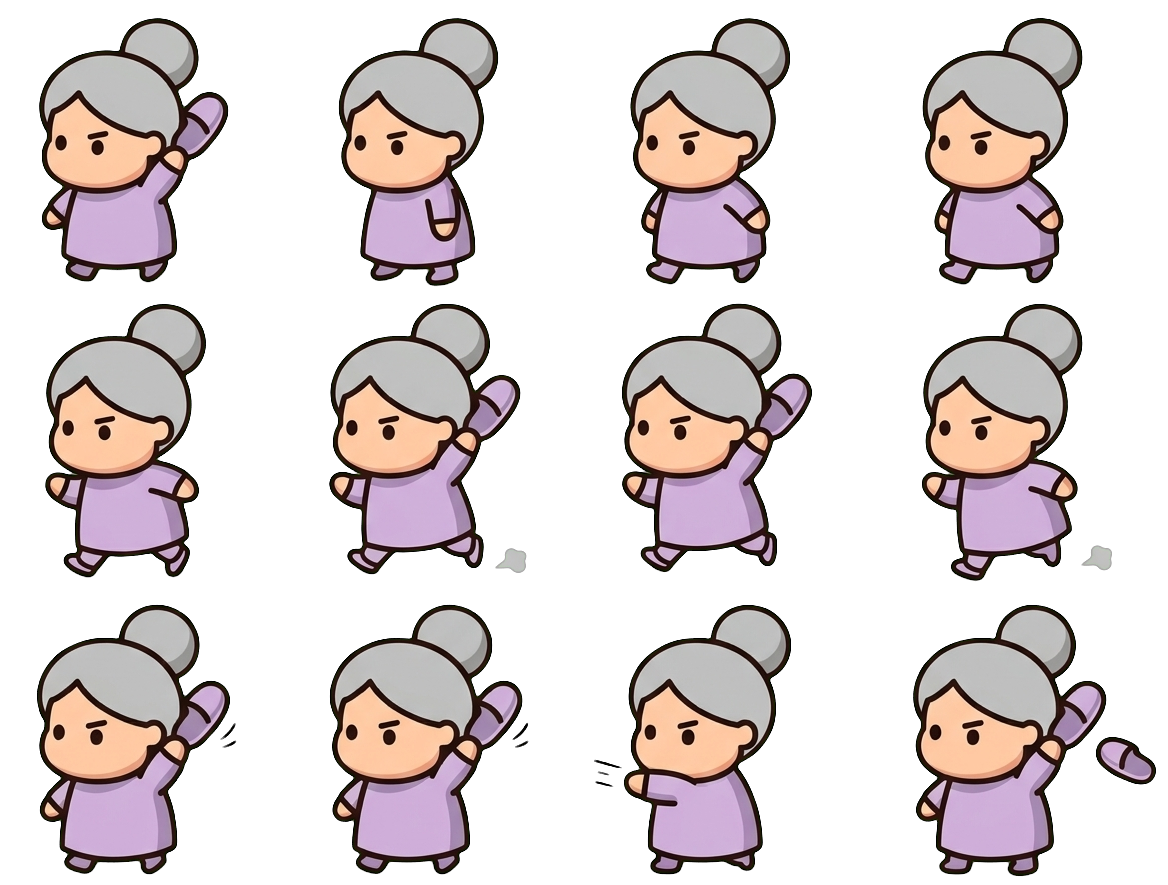
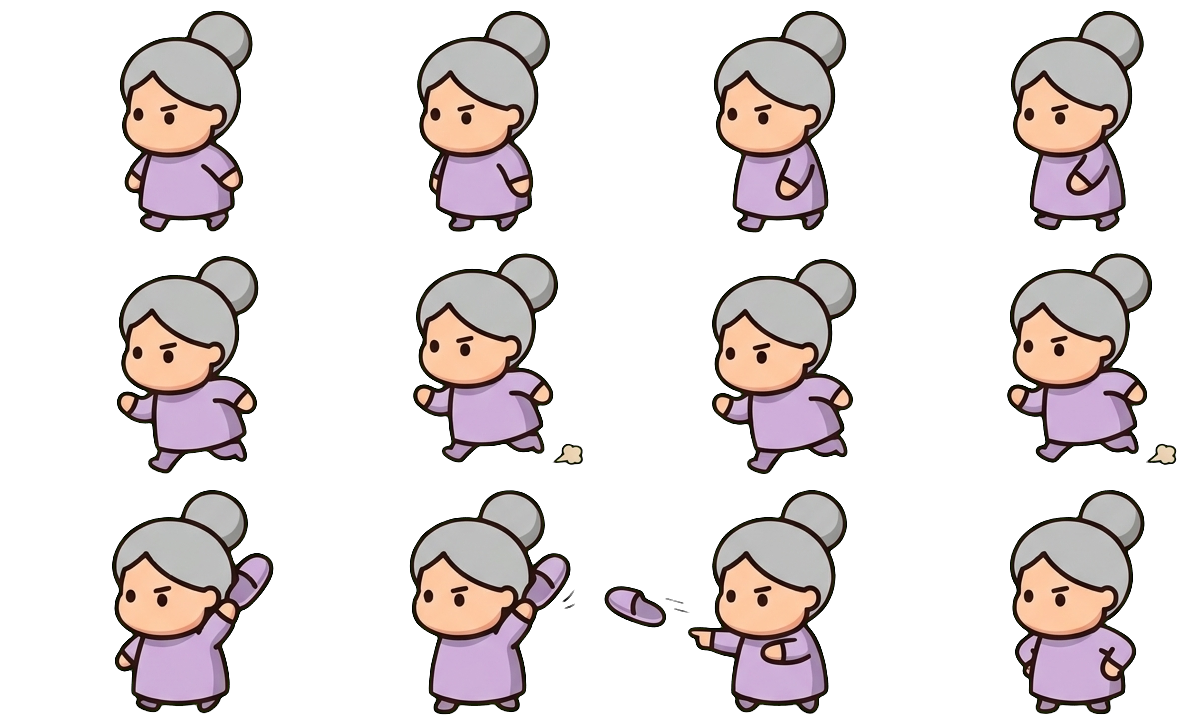
Redo Nana animation (consistent hands), add animations overview
Claude-Session: https://claude.ai/code/session_01EhkagRdaEkRKXUjDzP8ARK

diff --git a/README.md b/README.md
@@ -34,6 +34,12 @@ Art assets for the brawler game.
 
 ![All pick cards](cards/_overview.jpg)
 
+## Animations
+
+Every brawler has walk, run and attack rows. Nana only holds her slipper in the attack row.
+
+![All animation sheets](animations/_overview.jpg)
+
 ## Effects
 
 | Group | Effects |
